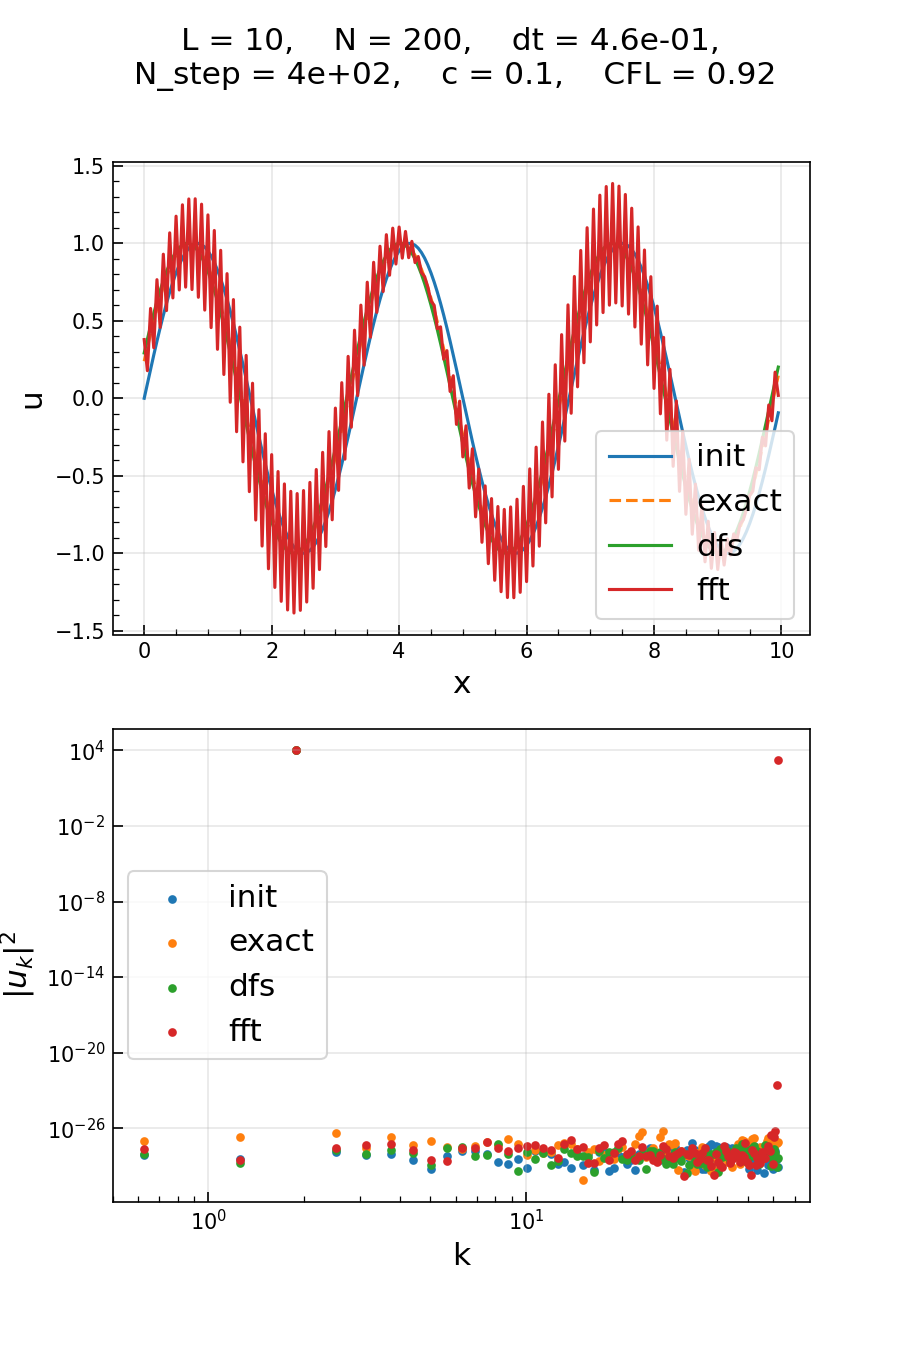
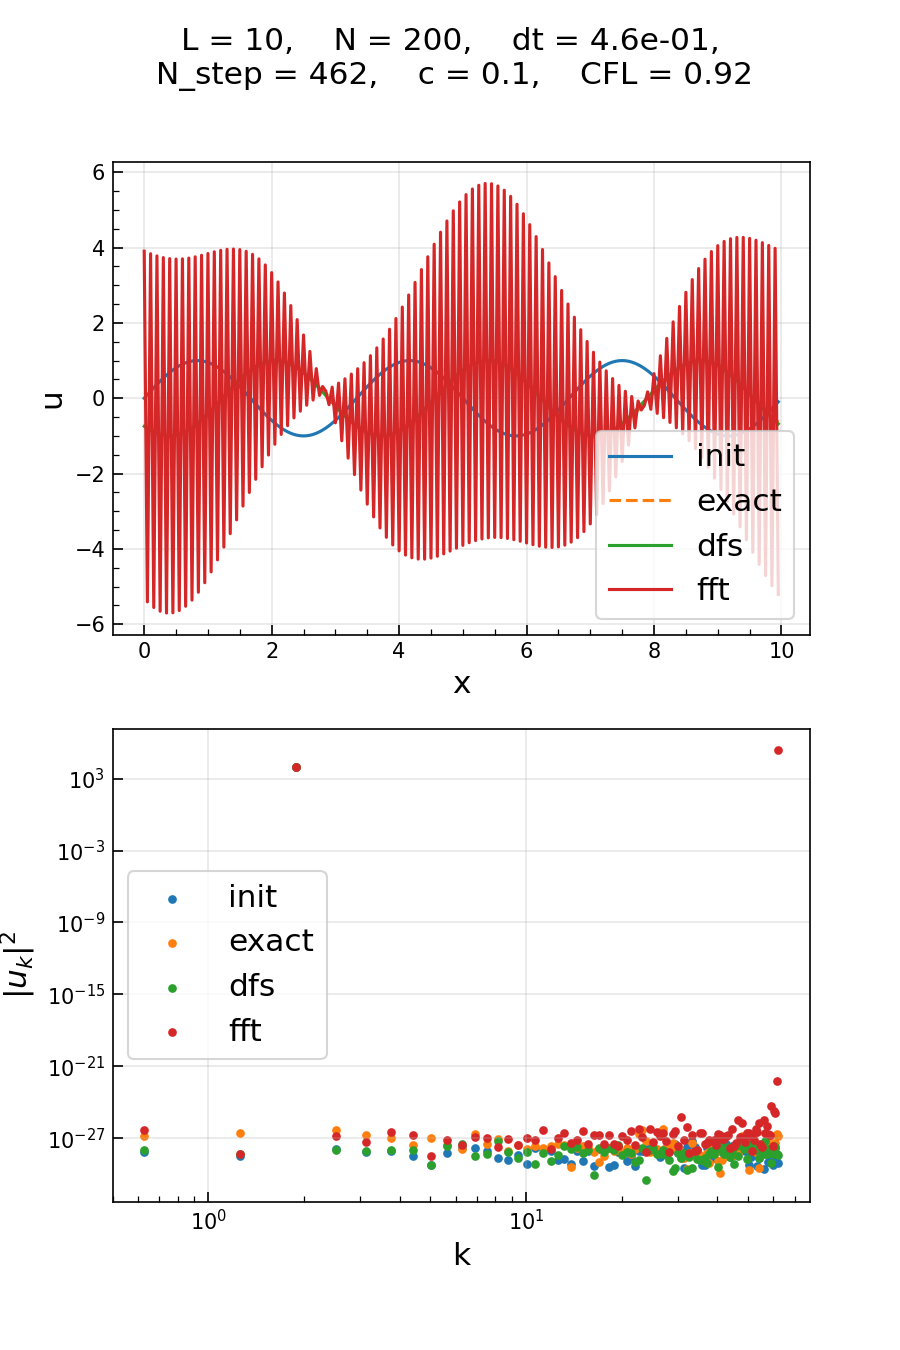
add new stuff

diff --git a/Modulo4/Progetto4/nonlin/evo_nonlinear.py b/Modulo4/Progetto4/nonlin/evo_nonlinear.py
@@ -12,6 +12,7 @@ import matplotlib.pyplot as plt
 import NumDerivative as der
 import NumIntegrator as Int
 import NumScheme as NS
+from utils import plot_template, evaluate_energy_density_spectrum, my_real_fft
 
 # Define the right hand side term of the eq
 def F_non_linear(u, dx):
@@ -19,7 +20,7 @@ def F_non_linear(u, dx):
     Function of equation:
          du/dt = - u * du/dx = F(u)
     """
-    return - u * der.simm_der(u, dx)
+    return - u * der.fft_der(u, dx)
 
 # Define the initial condition
 def u_sin_simple(x, L, k = 1):
@@ -37,19 +38,6 @@ def u_sin_hard(x, L):
     k3 = 20
     return np.sin(k1 * 2*np.pi*x/L) + 1/5*np.sin(k2 * 2*np.pi*x/L) + 1/10*np.sin(k3 * 2*np.pi*x/L)
 
-# Fourier transform in time 
-def my_real_fft(u, dx):
-    """
-    Real Fast Fourier Transform.
-    """
-    N = len(u)
-    # x : 2 * pi = y : 1 ---> unitary rate
-    # => dy = dx/(2*pi)
-    dy =  dx / (2 * np.pi)
-    # fft(j) = (u * exp(-2*pi*i*j*np.arange(n)/n)).sum()
-    fft = fftpack.fft(u) # Discret fourier transform 
-    k = fftpack.fftfreq(N, dy) 
-    return fft, k
 
 def initial(u, m, kind = 'classic'):
     """
@@ -60,12 +48,12 @@ def initial(u, m, kind = 'classic'):
     #define input variable
     # spatial inputs
     L = 10 # Spatial size of the grid
-    N = 100 # spatial step of grid
+    N = 200 # spatial step of grid
     nu = 0.05 # useless parameter
     
     # temporal inputs
-    dt = 0.1 # Temporal step
-    N_step = 15 # Number of Temporal steps
+    dt = 0.01 # Temporal step
+    N_step = 100 # Number of Temporal steps
     t = np.linspace(0, dt * N_step, N_step+1)
 
     ###############################################################
@@ -83,41 +71,8 @@ def initial(u, m, kind = 'classic'):
     u_t = np.copy(u_init) # create e copy to evolve it in time
     return L, N, nu, dt, N_step, dx, x, t, u_init, u_t
 
-def evaluate_energy_density_spectrum(u_t, dx):
-    # final fft
-    fft_u, k_u = my_real_fft(u_t, dx) # FFT of final u 
-    mod_u_k = np.abs(fft_u) # |u_k|
-    mod_fft2_u = (mod_u_k)**2 # square of module of fft final
-    mask_pos_k_u = k_u > 0 # mask for positive k final
-    mod_fft2_u = mod_fft2_u[mask_pos_k_u]
-    k_u = k_u[mask_pos_k_u]
-    return mod_fft2_u, k_u
 
-def plot_template():
-    fig, axs = plt.subplots(1, 2, figsize = (12, 3))
-    ax = axs[0]
-    ax.set_xlabel('x', fontsize=15)
-    ax.set_ylabel('u', fontsize=15)
-    ax.grid(alpha = 0.3)
-    ax.minorticks_on()
-    ax.tick_params('x', which='major', direction='in', length=5)
-    ax.tick_params('y', which='major', direction='in', length=5)
-    ax.tick_params('y', which='minor', direction='in', length=3, left=True)
-    ax.tick_params('x', which='minor', direction='in', length=3, bottom=True)
-    ax = axs[1]
-    ax.grid(alpha = 0.3)
-    ax.minorticks_on()
-    ax.tick_params('x', which='major', direction='in', length=5)
-    ax.tick_params('y', which='major', direction='in', length=5)
-    ax.tick_params('y', which='minor', direction='in', length=3, left=True)
-    ax.tick_params('x', which='minor', direction='in', length=3, bottom=True)
-    ax.set_xlabel('k', fontsize=15)
-    ax.set_ylabel(r'$\left|u_k\right|^2$', fontsize=15)
-    ax.set_yscale('log')
-    ax.set_xscale('log')
-    return fig, axs
-
-def ampl2(int_method, u, F):
+def ampl2(int_method, order, u, F):
     """
     This function plot the square of the Fourier coefficient of u 
     at the initial time and after few step.
@@ -138,11 +93,15 @@ def ampl2(int_method, u, F):
 
     # initial fft
     mod_fft2_u_init, k_u_init = evaluate_energy_density_spectrum(u_init, dx)
-    
-    fig, axs = plot_template()
+
+    title = f'L = {L},    N = {N},    dt = {dt:.1e}, N_step = {N_step:.0e}'
+    fig, axs = plot_template(2,1, figsize = (6, 9))
+    plt.rc('font', **{'size'   : 15})
+    plt.suptitle(title, fontsize = 15)
+
     ## First line
     for i in range(N_step):# Evolution in time
-        u_t = int_method(u_t, F, dt, dx)
+        u_t = int_method(u_t, F, dt, order, dx)
     ax = axs[0]
     ax.plot(x, u_init, label = 't = 0')
     ax.plot(x, u_t.real, label = f't = {N_step * dt:.1f}')
@@ -155,7 +114,7 @@ def ampl2(int_method, u, F):
 
     # Second line
     for i in range(N_step):# Evolution in time
-        u_t = int_method(u_t, F, dt, dx)
+        u_t = int_method(u_t, F, dt, order, dx)
     ax = axs[0]
     ax.plot(x, u_t.real, label = f't = {2 * N_step * dt:.1f}')
 
@@ -167,10 +126,9 @@ def ampl2(int_method, u, F):
         
     # Plot results
     equation = r'$\partial_t u = - u \partial_x u \ \longrightarrow$  differenze finite simmetriche + RK2'
-    plt.suptitle(equation, fontsize = 15)
     [ax.legend(fontsize = 12) for ax in axs]
-    plt.tight_layout()
-#    plt.savefig('../figures/nonlinear/simm_RK2.png', dpi = 200)
+#    plt.tight_layout()
+    plt.savefig('../figures/final/nonlinear_fft.png', dpi = 200)
     plt.show()
 
 
@@ -275,5 +233,5 @@ def test_turn_over(u):
 
 if __name__ == '__main__':
     #test_Lax_Wendroff(u_sin_simple)
-    ampl2(Int.RK2, u_sin_simple, F_non_linear)
+    ampl2(Int.RKN, 4, u_sin_simple, F_non_linear)
     #test_turn_over(u_sin_simple)

diff --git a/Modulo4/Progetto4/simulazioni_finali/adv_diffusion.py b/Modulo4/Progetto4/simulazioni_finali/adv_diffusion.py
@@ -1,0 +1,41 @@
+import sys
+
+from scipy.fftpack.basic import fft
+sys.path.append('../')
+
+import numpy as np 
+import matplotlib.pyplot as plt
+import NumDerivative as der
+import NumIntegrator as Int
+import NumScheme as NS
+from scipy.optimize import curve_fit
+from utils import my_real_fft, plot_template, evaluate_energy_density_spectrum
+from utils import check_CFL, check_VonNeumann
+from utils import analytic_sol_u_sin_simple_advection, analytic_sol_gaussian_advection
+from utils import analytic_sol_u_sin_simple_diffusion
+from utils import u_sin_simple, gaussian
+from utils import advection_diffusion
+from utils import plot_results
+
+def initialization(L, N, u, init_params):
+    dx = L/N
+    x = np.linspace(0,L,N, endpoint = False)
+
+    check_CFL(c, dx, dt) # check CFL condition
+    check_VonNeumann(nu, dt, dx) # Check Von Neumann on diffusion only
+
+    # Define starting function
+    u_init = u(x, init_params) # save initial condition 
+    u_t = np.copy(u_init) # create e copy to evolve it in time
+    return dx, x, u_init, u_t
+
+def evolve_advection_diffusion(L, N, nu, dt, N_step, c,
+                               u, F, der1, der2, int_method, RKorder, 
+                               init_params):
+    dx, x, u_init, u_t = initialization(L, N, u, init_params)
+    for _ in range(N_step): # temporal evolution
+            u_t = int_method(u_t, F, dt, RKorder, c, nu, dx, der1, der2) 
+            u_k2, _ = evaluate_energy_density_spectrum(u_t, dx)
+    return u_init, u_t, x, dx
+
+

diff --git a/Modulo4/Progetto4/utils.py b/Modulo4/Progetto4/utils.py
@@ -30,12 +30,15 @@ def my_real_ifft(u):
     ifft = fftpack.ifft(u) # Discret fourier transform 
     return ifft
 
-def evaluate_energy_density_spectrum(u_t, dx):
+def evaluate_energy_density_spectrum(u_t, dx, zero_energy = False):
     # final fft
     fft_u, k_u = my_real_fft(u_t, dx) # FFT of final u 
     mod_u_k = np.abs(fft_u) # |u_k|
     mod_fft2_u = (mod_u_k)**2 # |u_k|^2
-    mask_pos_k_u = k_u > 0 # mask for positive k final
+    if zero_energy:
+        mask_pos_k_u = k_u >= 0 # mask for positive k final
+    else:
+        mask_pos_k_u = k_u > 0 # mask for positive k final
     mod_fft2_u = mod_fft2_u[mask_pos_k_u]
     k_u = k_u[mask_pos_k_u]
     return mod_fft2_u, k_u

diff --git a/Modulo4/Progetto4/simulazioni_finali/advection.py b/Modulo4/Progetto4/simulazioni_finali/advection.py
@@ -69,7 +69,7 @@ if __name__ == '__main__':
     L = 10           # Spatial size of the grid
     N = 200          # spatial step of grid
     dt = 4.6e-1        # Temporal step
-    N_step = 432     # Number of Temporal steps
+    N_step = 462     # Number of Temporal steps
 
     dx = L/N
     c = 0.1 
